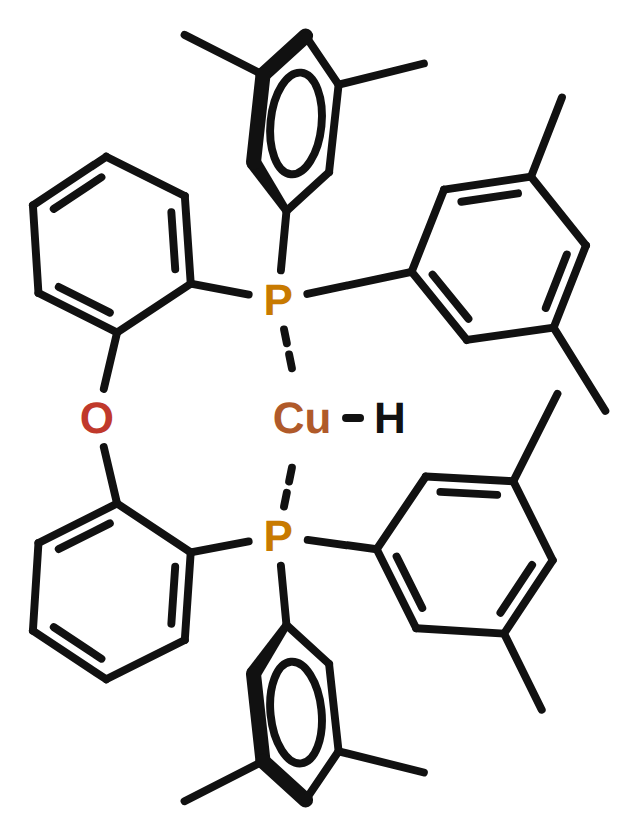
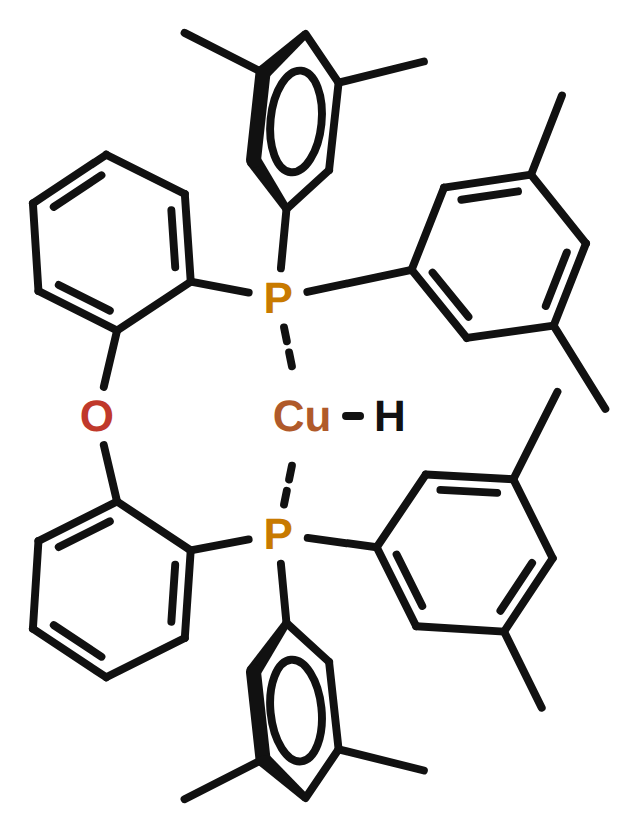
metaldepict: alternate taper/bold in tilts; differentiated P-arms; tighter GIF crop
relax_harness.py
  - _restyle_tilted_ring: within a run of near-side edges, ALTERNATE taper, bold,
    taper, ... (instead of taper then all-bold), so a run starts and ends with a
    taper and a bold is always flanked by tapers -- no dangling bold whose far
    end touches no wedge (fixes the Josiphos / DM-DPEPhos thick-bond artefact).

gen_named.py
  - _extend_p_leaves: rescale each P leaf along its arm by bond kind -- push the
    WEDGE/DASH arm (the stereo-bearing t-Bu) OUT, pull a PLAIN arm (methyl) IN,
    so QuinoxP*'s S,S wedge/dash is clear and the methyls don't stick out.

gen_gif.py
  - crop every frame to the common molecule bbox (ignoring the per-cell title
    band, since the GIF draws its own label), trimming the whitespace while
    keeping Cu-H locked across frames.

panels: tilted matrix cells, grid, named figures/cropped PNGs and the GIF
regenerated (all from cache -- no re-optimisation).

Claude-Session: https://claude.ai/code/session_01VEr4Hixwf6YDK6DNqMg3Gi

diff --git a/metaldepict/methods/gen_named.py b/metaldepict/methods/gen_named.py
@@ -49,15 +49,18 @@ def _frozen_H(builder, key):
     return H
 
 
-def _extend_p_leaves(H, factor=1.5):
-    """Push every leaf substituent on a P donor (methyl, t-Bu, ... -- anything not
-    in a ring and not the metal) radially further out, lengthening the P-arm so a
-    stereo wedge / dash drawn on it is clearly visible."""
+def _extend_p_leaves(H, out_factor=1.7, in_factor=0.82):
+    """Rescale leaf substituents on each P donor along their P-arm: the arm that
+    carries the stereo WEDGE / DASH is pushed OUT (out_factor) so the stereo is
+    clearly visible, while a plain arm (e.g. the methyl) is pulled IN (in_factor)
+    so it does not stick out.  Ring substituents and the metal are left alone."""
     for p in H.donors:
         px, py = H.pos[p]
         for n in H.adj[p]:
             if H.label[n] == "Cu" or any(n in r for r in H.rings):
                 continue
+            kind = H.kind.get(frozenset((p, n)), "plain")
+            factor = out_factor if kind in ("wedge", "dash") else in_factor
             comp, stack = {n}, [n]
             while stack:
                 x = stack.pop()
@@ -73,12 +76,12 @@ def _extend_p_leaves(H, factor=1.5):
 
 
 def _quinoxp():
-    # (S,S)-QuinoxP*: two P-stereocentres (RDKit wedges the P-Me bond on one, dashes
-    # it on the other -> the S,S display).  Extend the P-Me / P-tBu arms so those
-    # wedges / dashes are clearly visible.
+    # (S,S)-QuinoxP*: two P-stereocentres -- RDKit wedges the P-tBu bond on one
+    # centre and dashes it on the other (the S,S display).  Push the t-Bu (wedge/
+    # dash) arms OUT so the stereo is clear, and pull the plain methyls back IN.
     H = _smiles_H("C[P@@](C(C)(C)C)c1nc2ccccc2nc1[P@@](C)C(C)(C)C",
                   "(S,S)-QuinoxP*")
-    _extend_p_leaves(H, 1.55)
+    _extend_p_leaves(H, out_factor=1.7, in_factor=0.8)
     return H
 
 

diff --git a/metaldepict/methods/relax_harness.py b/metaldepict/methods/relax_harness.py
@@ -687,7 +687,10 @@ def _restyle_tilted_ring(H, ring, perp):
     # rotate the edge list so a run of near-side edges does not wrap the seam
     start = next((i for i in range(len(edges)) if not near[i]), 0)
     order = [(start + k) % len(edges) for k in range(len(edges))]
-    run = False
+    # within a run of near edges ALTERNATE taper, bold, taper, ... -- so a run
+    # starts and ends with a taper and a bold is always flanked by tapers (never
+    # a dangling bold whose far end touches no wedge).
+    run_idx = 0
     for i in order:
         e = edges[i]
         bd = bonds.get(frozenset(e))
@@ -696,19 +699,19 @@ def _restyle_tilted_ring(H, ring, perp):
         bd.order = 1
         bd.inside = None
         if near[i]:
-            if run:                              # a wedge already feeds this one
+            if run_idx % 2 == 1:                 # interior of the run -> bold
                 bd.kind = "bold"
                 bd.width = None
-            else:                                # first wedge of the run -> taper
+            else:                                # run ends (and start) -> taper
                 lo, hi = (e[0], e[1]) if depth[e[0]] <= depth[e[1]] else (e[1], e[0])
                 bd.a, bd.b = lo, hi              # narrow at far vertex, wide toward viewer
                 bd.kind = "taper"
                 bd.width = 0.17 * L
-            run = True
+            run_idx += 1
         else:
             bd.kind = "plain"
             bd.width = None
-            run = False
+            run_idx = 0
     H.scene.ring_circle(list(ring), r_frac=0.58)
 
 

diff --git a/metaldepict/methods/gen_gif.py b/metaldepict/methods/gen_gif.py
@@ -54,6 +54,25 @@ def main():
     have = {(c["backbone"], c["sub"]): c["png"] for c in idx["cells"]}
     order = [bs for bs in snake_order(backbones, subs) if bs in have]
 
+    # common crop window = union of every cell's MOLECULE ink bbox, so whitespace
+    # is trimmed identically across frames and Cu-H stays locked.  The per-cell
+    # title sits in the top-left corner; ignore that band (the GIF draws its own
+    # label bar) or it would stretch the crop all the way to the title.
+    from PIL import ImageChops, ImageDraw as _ID
+    imgs = {k: Image.open(v).convert("RGB") for k, v in have.items()}
+    title_band = 70
+    x0 = y0 = 10 ** 9
+    x1 = y1 = 0
+    for im in imgs.values():
+        c = im.copy()
+        _ID.Draw(c).rectangle([0, 0, c.width, title_band], fill="white")
+        bb = ImageChops.difference(c, Image.new("RGB", c.size, "white")).getbbox()
+        if bb:
+            x0, y0 = min(x0, bb[0]), min(y0, bb[1])
+            x1, y1 = max(x1, bb[2]), max(y1, bb[3])
+    pad = 18
+    crop = (max(0, x0 - pad), max(0, y0 - pad), x1 + pad, y1 + pad)
+
     frames = []
     target_w = 940
     try:
@@ -62,7 +81,7 @@ def main():
     except Exception:
         font = ImageFont.load_default()
     for bk, sb in order:
-        im = Image.open(have[(bk, sb)]).convert("RGB")
+        im = imgs[(bk, sb)].crop(crop)
         scale = target_w / im.width
         im = im.resize((target_w, int(im.height * scale)))
         d = ImageDraw.Draw(im)
